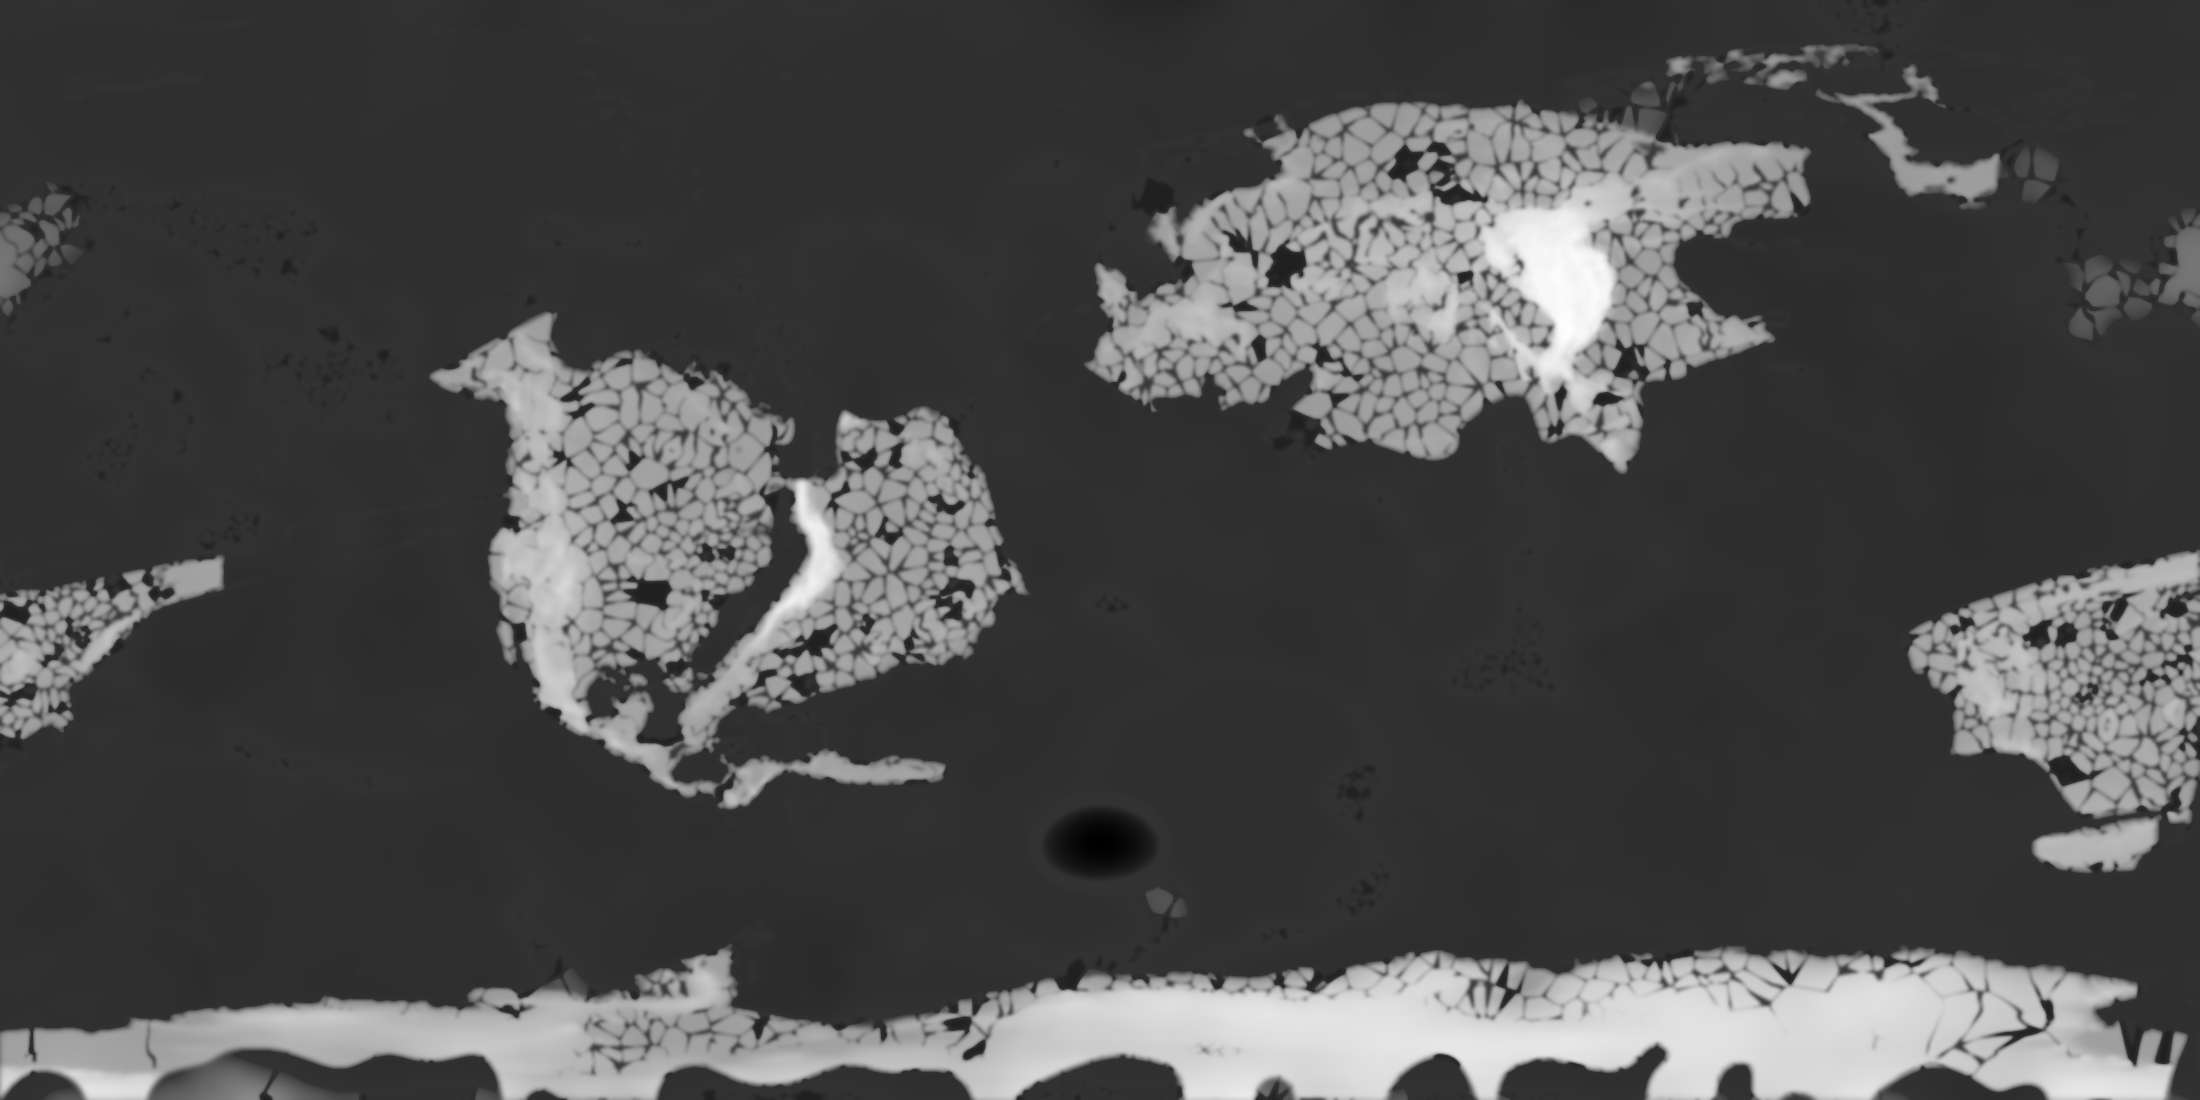
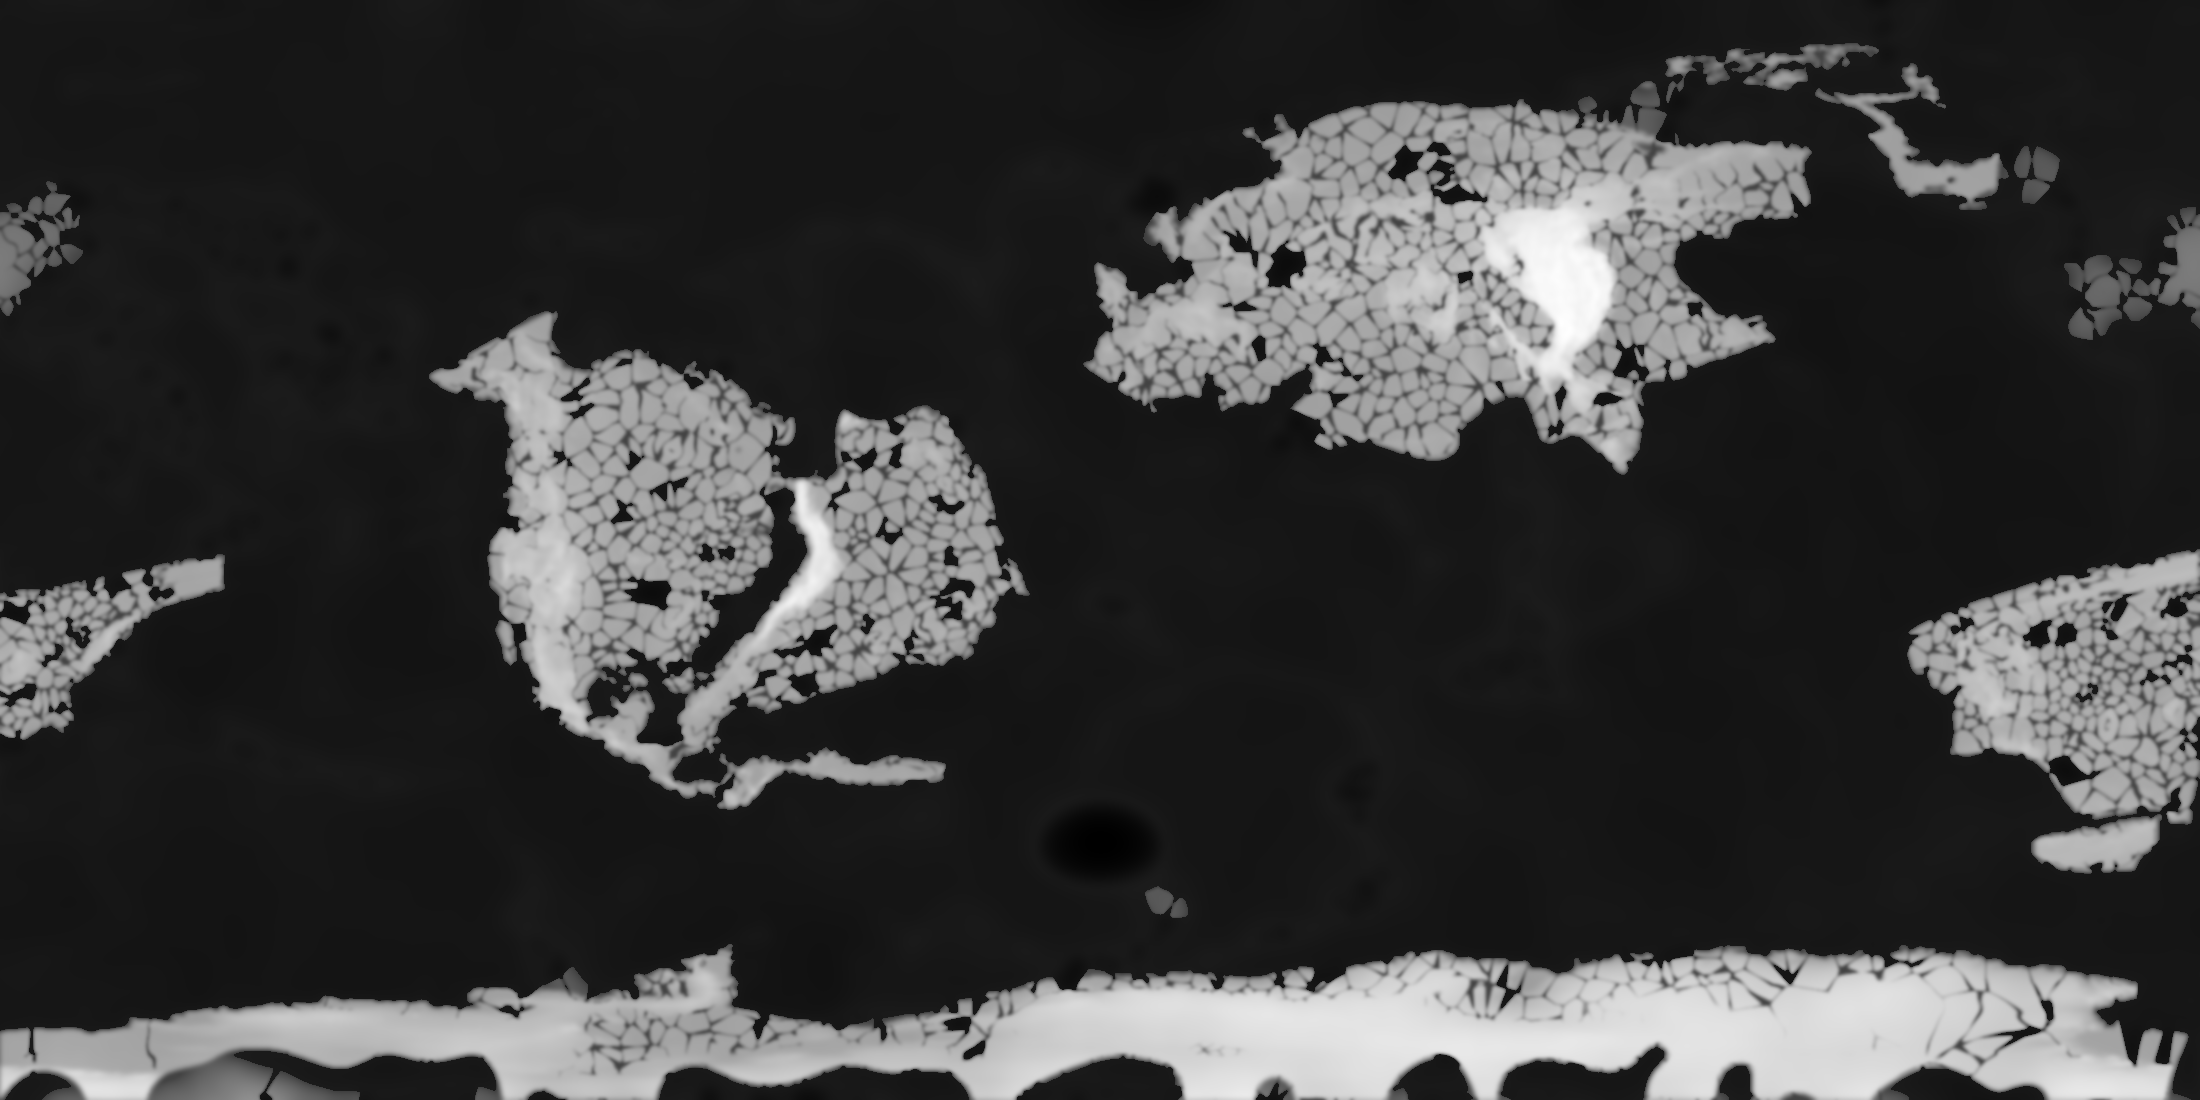
Fix scattered land-slivers in Azgaar import from ocean texture noise
The ocean floor is deliberately textured (rotated bathymetry reused
for visual interest), and once compressed into the narrow low
luminosity band for Azgaar's water threshold, that texture's
variation was large enough - combined with Azgaar's own colour
quantization - to push scattered ocean cells above the threshold as
one-cell "land" slivers across open water.

Fixed by heavily smoothing the sea (gaussian, only in this export -
the colour render is untouched) before encoding it, and widening the
gap between the highest sea value and lowest land value (was 0, now
a real dead zone) so quantization rounding can't cross it.

diff --git a/maps/generate_world.py b/maps/generate_world.py
@@ -658,13 +658,29 @@ def render_heightmap(z):
     of 255), not the middle of the range - putting it at 127 like a normal
     centered greyscale (as this used to) pushes most of the ocean above the
     water threshold and the whole map imports as land.
+
+    The ocean floor is deliberately textured (reused, rotated bathymetry,
+    for visual interest in the colour render) rather than flat. Once
+    compressed into a narrow low band that texture's variation is large
+    relative to the band, and Azgaar's own colour quantization can push a
+    scattered handful of ocean cells across the water threshold - hundreds
+    of one-cell "land" slivers out in open water. Two fixes: heavily smooth
+    the sea BEFORE encoding it (the colour render is unaffected, only this
+    export), and leave a real dead zone between the highest sea value and
+    the lowest land value instead of having them meet exactly at the
+    boundary, so quantization rounding can't cross it.
     """
-    out = np.zeros_like(z)
     sea, land = z < 0, z >= 0
+    out = np.zeros_like(z)
     if sea.any():
-        out[sea] = 51 * (1 - z[sea] / (z[sea].min() or -1))
+        smoothed_sea = ndimage.gaussian_filter(
+            np.where(sea, z, 0.0), 6.0, mode=("nearest", "wrap")
+        )
+        depth = np.clip(-smoothed_sea[sea], 0, None)
+        max_depth = depth.max() or 1.0
+        out[sea] = 30 * (1 - (depth / max_depth) ** 0.5)
     if land.any():
-        out[land] = 51 + 204 * (z[land] / (z[land].max() or 1)) ** 0.65
+        out[land] = 60 + 195 * (z[land] / (z[land].max() or 1)) ** 0.65
     return Image.fromarray(np.clip(out, 0, 255).astype(np.uint8), mode="L")
 
 
